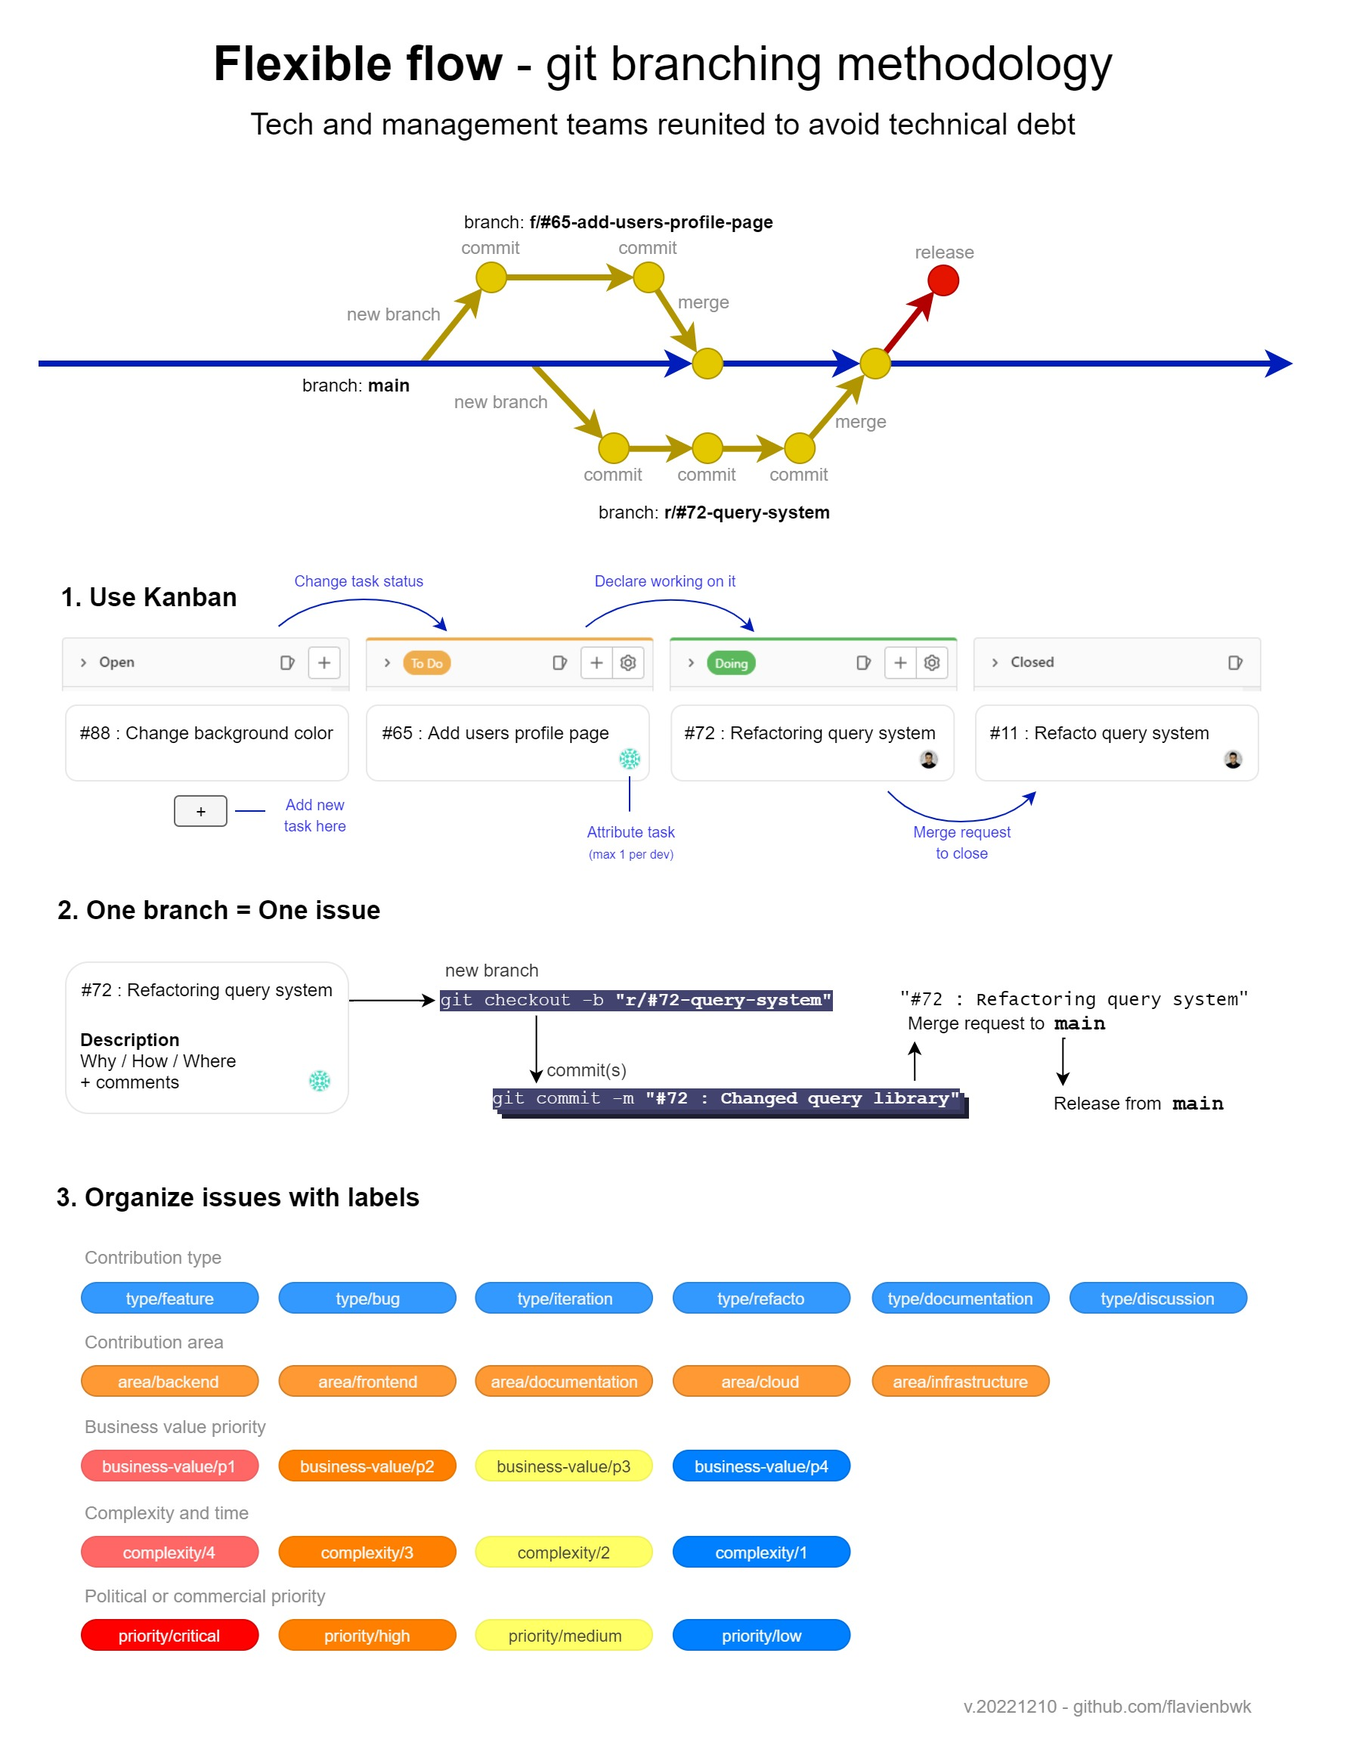
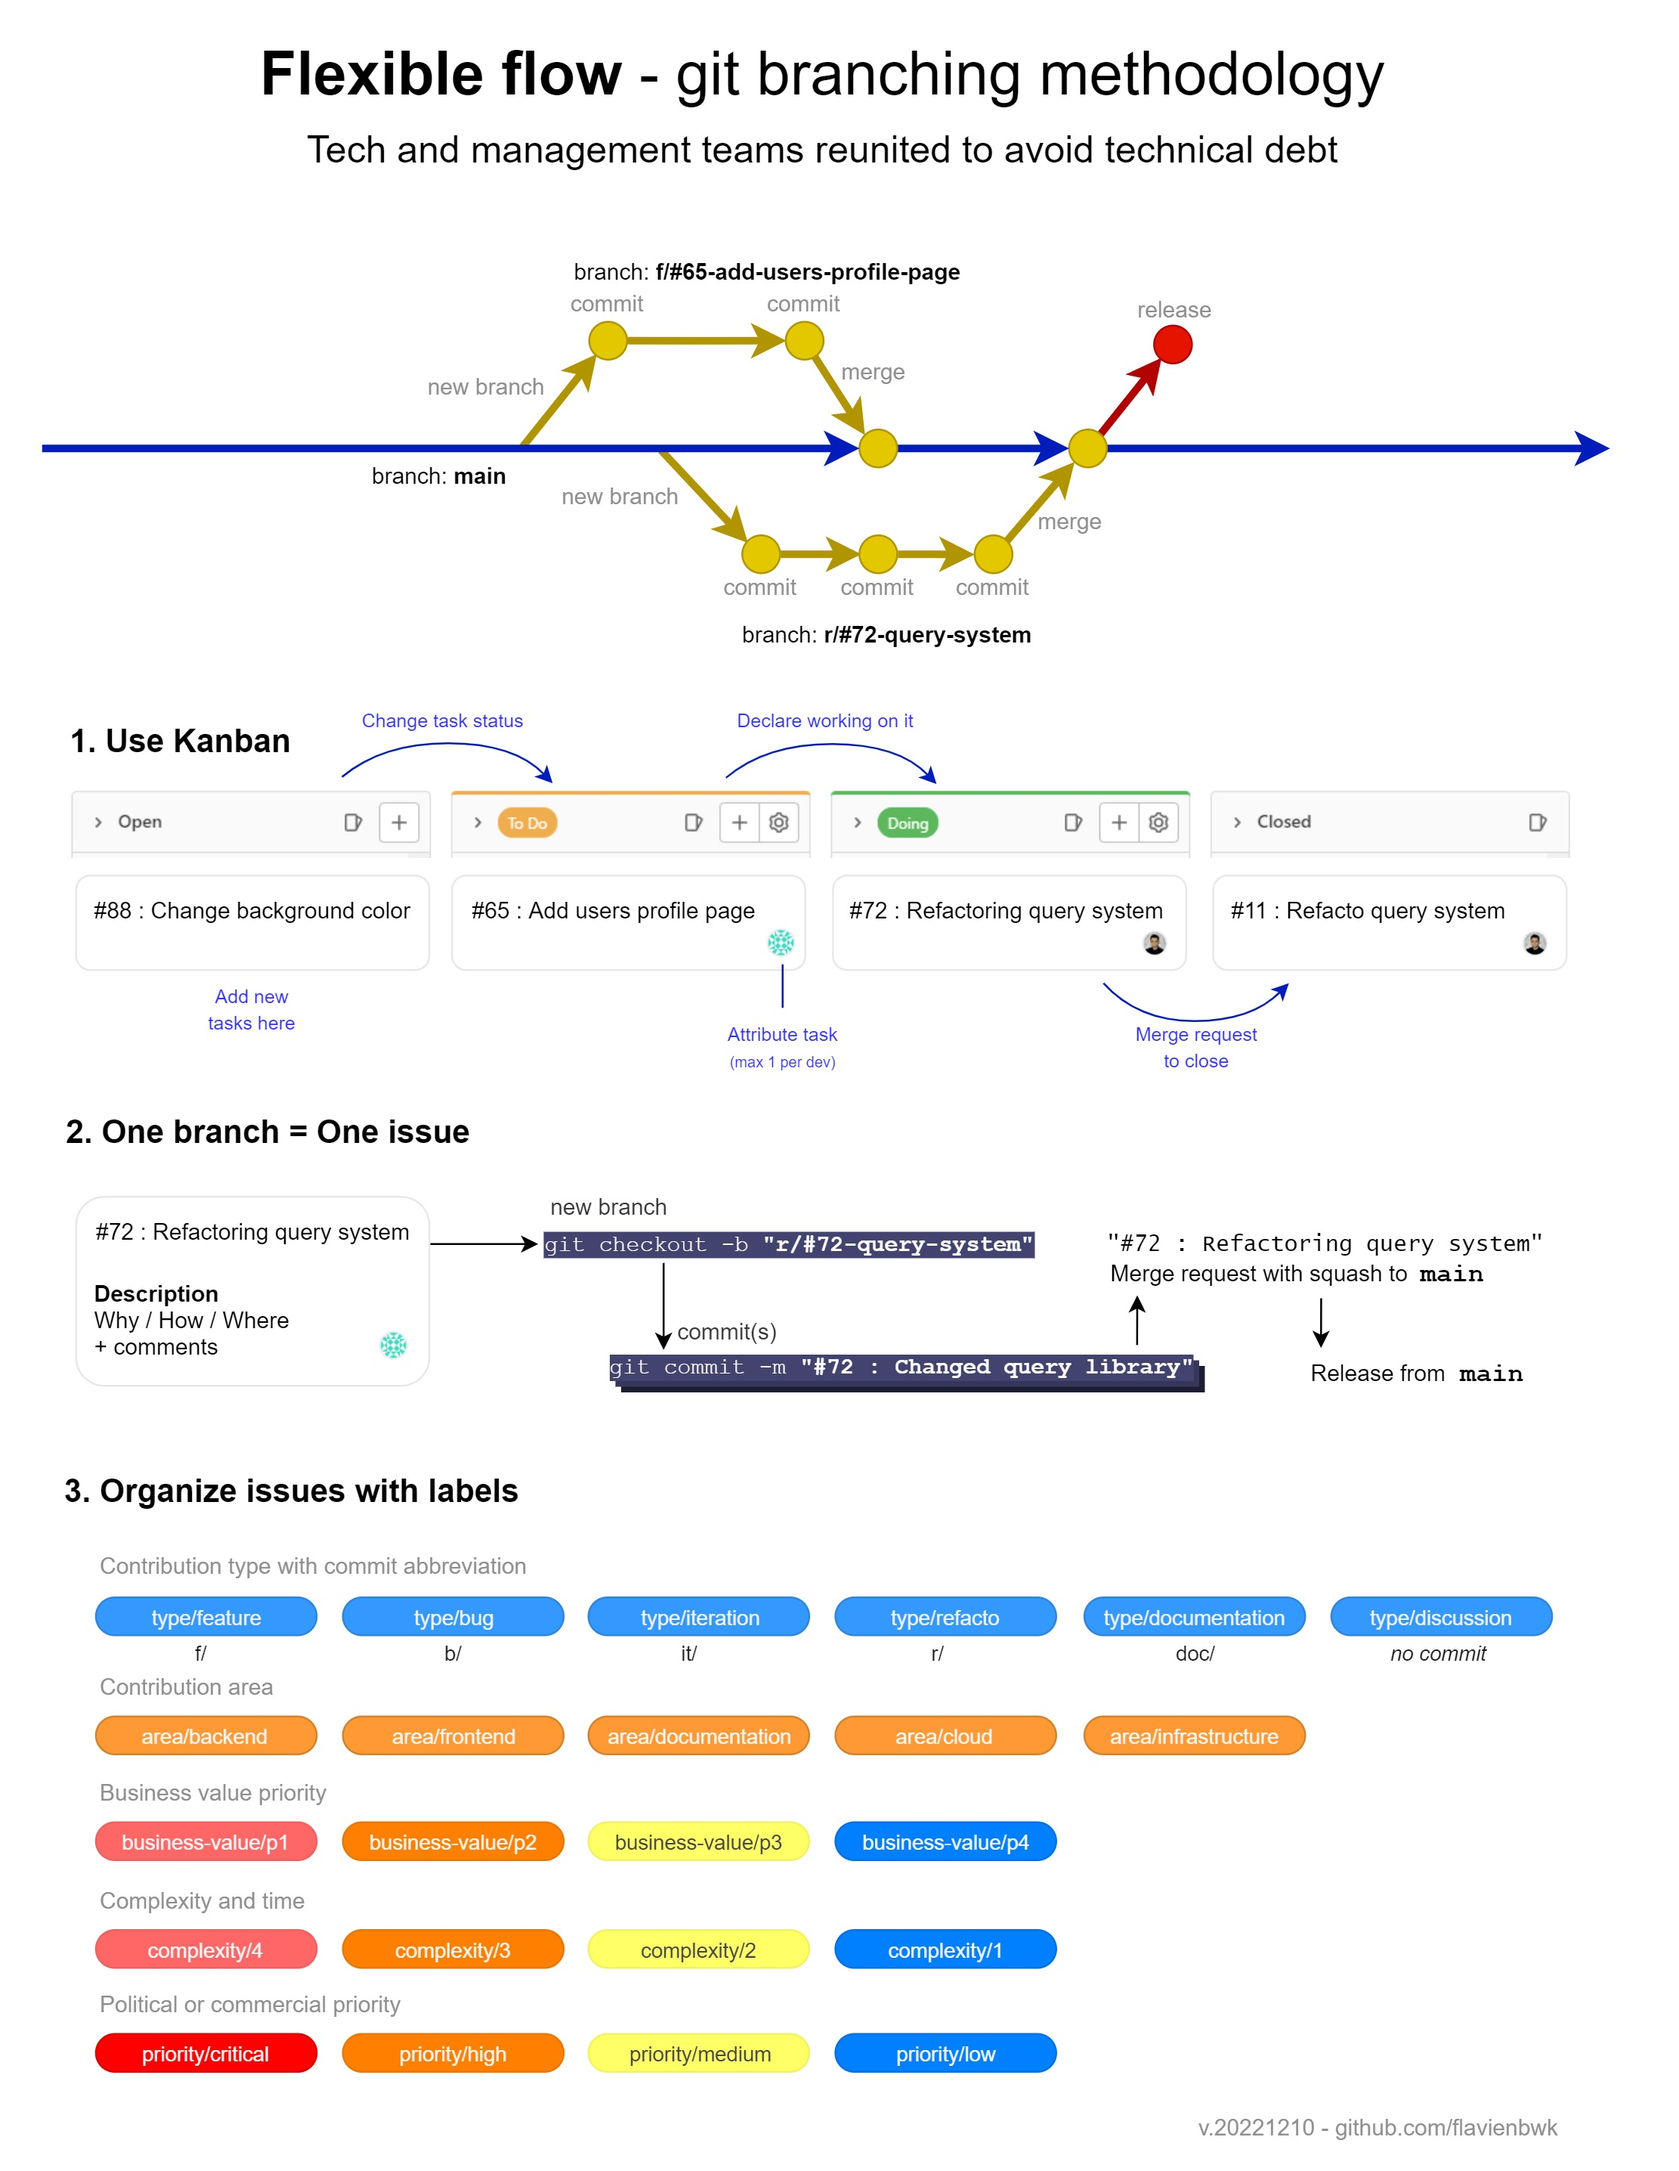
Updated flexible flow schema

diff --git a/fra/README.md b/fra/README.md
@@ -714,7 +714,7 @@ Une usine logicielle est composée d'une forge logicielle et de services permett
 
 Les forges logicielles les plus populaires sont GitLab et GitHub. Vous aurez tendance à retrouver GitLab de manière plus courante au sein des grandes organisations, car il est déployable sur des réseaux isolés. GitHub quant à lui est uniquement disponible par Internet.
 
-Comme nous le verrons dans le chapitre "[GitOps et workflow git](#gitops-et-workflows-git)", en DevOps, tout le code source des logiciels et toutes les configurations de production sont stockées sous forme de code au sein d'une forge logicielle. On dit ainsi qu'elle est la "source unique de vérité" de votre infrastructure, centralisant toutes les ressources nécessaires au déploiement de services sur votre réseau.
+Comme nous le verrons dans le chapitre "[GitOps](#gitops)", en DevOps, tout le code source des logiciels et toutes les configurations de production sont stockées sous forme de code au sein d'une forge logicielle. On dit ainsi qu'elle est la "source unique de vérité" de votre infrastructure, centralisant toutes les ressources nécessaires au déploiement de services sur votre réseau.
 
 Sans forge logicielle, les équipes de développement travaillaient chacunes dans leur propre dossier local et s'échangaient leur code sur un dossier réseau partagé ou par clé USB. Cela faisait perdre beaucoup de temps lors de la fusion de fonctionnalités développées par plusieurs contributeurs différents et occasionnait de réels problèmes de sécurité. Inutile de dire qu'il n'y avait aucun moyen de tracer les actions ni de retrouver ses fichiers en cas de suppression accidentelle. Qui plus est, les équipes de gestion de projet étaient totalement mises à l'écart du cycle de développement logiciel.
 
@@ -866,6 +866,7 @@ Gestion des contributions :
 3. Mentionner le numéro d'_issue_ à chaque _commit_
     - Nomenclature : _"#65 : Added page icon in sidebar"_
 4. Une fois la contribution prête, créer une _merge request_ vers la _trunk branch_
+    - Utiliser la fonctionnalité _squash_ pour éviter de polluer l'historique des contributions
     - Nomenclature : _"#65 : Add users profile page"_
     - Permet d'automatiquement faire référence à la merge request dans l'issue
 5. _Release_ : mettre à jour la version du logiciel (dans les fichiers type `package.json`) et créer une _release_ à partir de la _trunk branch_.
